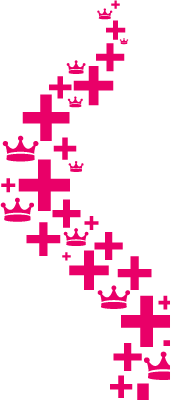
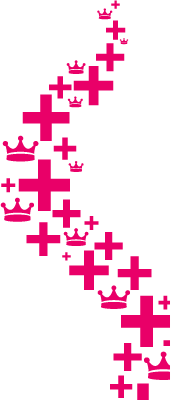
Feedback Emily

Changed region(s): [[0.0, 0.0, 0.9942, 1.0]]

diff --git a/sites/all/themes/hedgecomm/css/global.css b/sites/all/themes/hedgecomm/css/global.css
@@ -6,6 +6,10 @@ a:link, a:visited {
   text-decoration: none;
 }
 
+.form-required {
+  display: none;
+}
+
 /** Layout override **/
 .container-12 {
   width: 950px !important;
@@ -79,7 +83,7 @@ a:link, a:visited {
 
 /** Content **/
 #section-content {
-  background: url(../img/main_left_top.png) no-repeat left top;
+  background: url(../img/main_left_top.png) no-repeat left 15px;
 }
 
 #zone-content-wrapper {
@@ -287,6 +291,7 @@ a:link, a:visited {
 	padding-bottom: 20px;
 	margin-bottom: 20px;
 	position: relative;
+	width: 620px;
 }
 
 .page-sprekers .view-sprekers ul.sprekers li.spreker.last {
